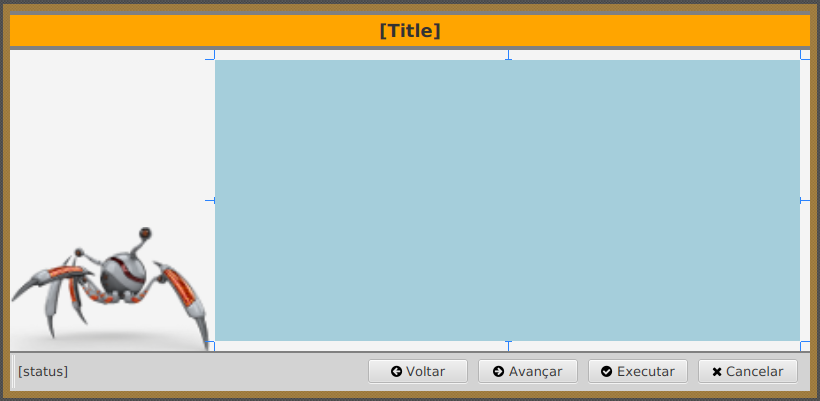
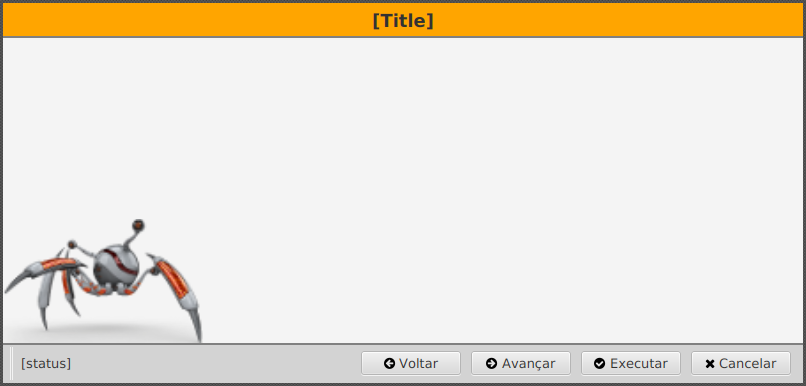
Coleta de parâmetros.

diff --git a/src/main/java/br/com/spiderbot/wizard/pages/Parameters.java b/src/main/java/br/com/spiderbot/wizard/pages/Parameters.java
@@ -1,0 +1,77 @@
+package br.com.spiderbot.wizard.pages;
+
+import javafx.fxml.FXML;
+import javafx.scene.control.Spinner;
+import javafx.scene.control.SpinnerValueFactory;
+import javafx.scene.control.TextField;
+
+/**
+* Coleta de parâmetros.
+*
+* @author <a href="mailto:lvrodrigues@spiderbot.com.br">Luciano Vieira Rodrigues</a>
+* @since 01/01/2022
+* @author $$Author$$
+* @version $$Revision$$ - $$Date$$
+*/
+public class Parameters extends Page {
+
+    /**
+     * Parâmetro nome.
+     */
+    public static final String PARAM_NAME = "name";
+
+    /**
+     * Valor padrão para o parâmetro <b>name</b> quando este ainda não
+     * estiver atribuído.
+     */
+    private static final String PARAM_NAME_DEFAULT = "";
+
+    /**
+     * Parâmetro contador.
+     */
+    public static final String PARAM_COUNTER = "counter";
+
+    /**
+     * Valor padrão para o parâmetro <b>counter</b> quando este ainda
+     * não estiver atribuído.
+     * <p>
+     * Será também o valor mínimo para o componente.
+     */
+    private static final Integer PARAM_COUNTER_DEFAULT = Integer.valueOf("1000");
+
+    /**
+     * Parâmetro nome para ser utilizado pelas próximas páginas.
+     */
+    @FXML
+    private TextField fieldName;
+
+    /**
+     * Parêmtro de contagem de execuções.
+     */
+    @FXML
+    private Spinner<Integer> fieldCounter;
+
+    @Override
+    public String getTitle() {
+        return "Parâmetros";
+    }
+
+    @Override
+    public void onShow() {
+        fieldName.setText(datas().getOrDefault(PARAM_NAME, PARAM_NAME_DEFAULT));
+        fieldCounter.getValueFactory().setValue(Integer.valueOf(datas().getOrDefault(PARAM_COUNTER, PARAM_COUNTER_DEFAULT.toString())));
+    }
+
+    @Override
+    public boolean canDoNext() {
+        return !fieldName.getText().isBlank();
+    }
+
+    /**
+     * Execução automática na inicialização do componente.
+     */
+    @FXML
+    public void initialize() {
+        fieldCounter.setValueFactory(new SpinnerValueFactory.IntegerSpinnerValueFactory(PARAM_COUNTER_DEFAULT, Integer.MAX_VALUE));
+    }
+}

diff --git a/src/main/java/br/com/spiderbot/wizard/Wizard.java b/src/main/java/br/com/spiderbot/wizard/Wizard.java
@@ -5,6 +5,7 @@ import java.util.ArrayList;
 import java.util.List;
 
 import br.com.spiderbot.wizard.pages.Introduction;
+import br.com.spiderbot.wizard.pages.Parameters;
 import javafx.fxml.FXML;
 import javafx.fxml.FXMLLoader;
 import javafx.scene.control.Alert;
@@ -104,8 +105,12 @@ public class Wizard {
             FXMLLoader introduction = new FXMLLoader();
             introduction.setLocation(Introduction.class.getResource("introduction.fxml"));
             introduction.load();
-
             addPage(introduction);
+
+            FXMLLoader parameters = new FXMLLoader();
+            parameters.setLocation(Parameters.class.getResource("parameters.fxml"));
+            parameters.load();
+            addPage(parameters);
         } catch (IOException e) {
             Alert alert = new Alert(AlertType.ERROR);
             alert.setTitle("Erro");
@@ -129,7 +134,7 @@ public class Wizard {
 
         Circle circle = new Circle(5);
         circle.setFill(Color.BLACK);
-        circle.setOpacity(INDICATOR_CURRENT);
+        circle.setOpacity(INDICATOR_OTHERS);
         indicators.getChildren().add(0, circle);
     }
 }
